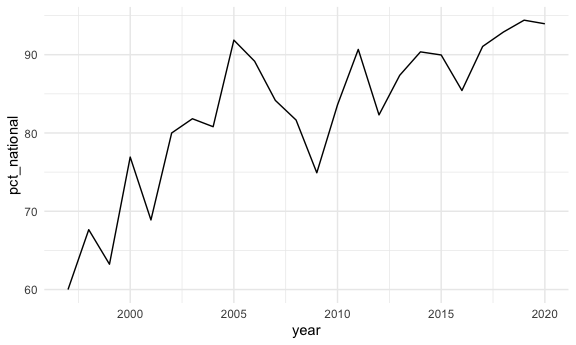
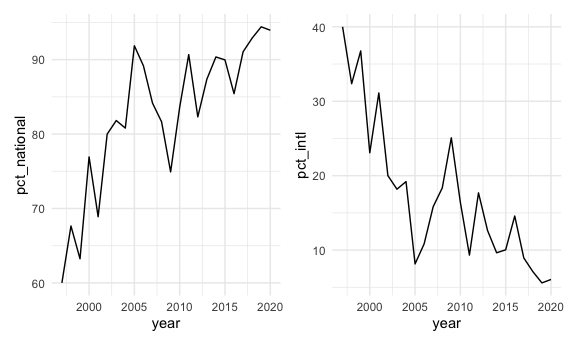
first look at plots before major work tomorrow morning

diff --git a/section-1.md b/section-1.md
@@ -11,14 +11,14 @@ will focus on global levels of violence against aid workers.
 library(tidyverse)
 ```
 
-    ## ── Attaching packages ─────────────────────────────────────────────────────────── tidyverse 1.3.0 ──
+    ## ── Attaching packages ─────────────────────────────────────────────────────────────────────────── tidyverse 1.3.0 ──
 
     ## ✓ ggplot2 3.3.2     ✓ purrr   0.3.4
     ## ✓ tibble  3.0.3     ✓ dplyr   1.0.2
     ## ✓ tidyr   1.1.2     ✓ stringr 1.4.0
     ## ✓ readr   1.3.1     ✓ forcats 0.5.0
 
-    ## ── Conflicts ────────────────────────────────────────────────────────────── tidyverse_conflicts() ──
+    ## ── Conflicts ────────────────────────────────────────────────────────────────────────────── tidyverse_conflicts() ──
     ## x dplyr::filter() masks stats::filter()
     ## x dplyr::lag()    masks stats::lag()
 
@@ -55,6 +55,36 @@ library(rvest)
 
 ``` r
 library(httr)
+library(flexdashboard)
+library(plotly)
+```
+
+    ## 
+    ## Attaching package: 'plotly'
+
+    ## The following object is masked from 'package:httr':
+    ## 
+    ##     config
+
+    ## The following object is masked from 'package:ggplot2':
+    ## 
+    ##     last_plot
+
+    ## The following object is masked from 'package:stats':
+    ## 
+    ##     filter
+
+    ## The following object is masked from 'package:graphics':
+    ## 
+    ##     layout
+
+``` r
+library(viridis)
+```
+
+    ## Loading required package: viridisLite
+
+``` r
 devtools::install_github("benmarwick/wordcountaddin",  type = "source", dependencies = TRUE)
 ```
 
@@ -89,12 +119,11 @@ aidworker_df =
   html_table() %>% 
   as_tibble()
 
-aidworker_df = 
-distinct(aidworker_df) 
-
 aidworker_df =
-  aidworker_df %>% 
+  aidworker_df %>%
   janitor::clean_names() %>% 
+  select(-source, -verified) %>% 
+  rename(year = year_sort_descending) %>% 
   mutate(intl_org_affected = 
            case_when(
              un != 0 ~ "yes",
@@ -102,17 +131,12 @@ aidworker_df =
              icrc != 0 ~ "yes",
              ifrc != 0 ~ "yes",
              other != 0 ~ "yes",
-             lngo_and_nrcs != 0 ~ "no"
-           ),
+             lngo_and_nrcs != 0 ~ "no"),
          intl_org_affected = as.factor(intl_org_affected)) %>% 
-  rename(year = year_sort_descending) %>% 
-  select(-source, -verified) %>% 
-  relocate(id, month, day, year, country, intl_org_affected)
+  relocate(id, month, day, year, country, intl_org_affected) 
 ```
 
 Brennan notes:
-
-\*why did we use distinct here?
 
   - I think this `case_when` approach works to identify whether an
     international org was affected, instead of the pivot idea.
@@ -123,6 +147,16 @@ Brennan notes:
 
   - if happy with cleaning, we can rename the `aidworker_tidy_df` as
     just `aidworker_df`
+
+Natalie notes:
+
+  - distinct was left behind from when I was trying to get the
+    pivot\_longer working. Deleted now\!
+
+  - I’m happy with the tidyness of it now but I think it would be more
+    useful to have a single date variable to use in our analysis - I
+    tried mutating to get to a date but keep getting all NAs. If someone
+    else figures this out lemme know\!
 
 ### Look at frequency of attacks on staff of various types of organizations
 
@@ -182,7 +216,10 @@ aidworker_df %>%
 
 ``` r
 ## If look at last row of data, appears "NA" is the total
+## Natalie note: I'm only seeing NA in the year column, not anywhere else - looks like the sums worked fine. I think R just knows not to add up the years. 
 
+## Plot of percentage of nationals affected by attacks over time 
+pct_ntl =
 aidworker_df %>%
   group_by(year) %>% 
   summarize(tot_national = sum(total_national_staff),
@@ -191,11 +228,33 @@ aidworker_df %>%
             pct_intl = (tot_intl/tot_both)*100,
             pct_national = (tot_national/tot_both)*100) %>% 
   ggplot(aes(x = year, y = pct_national)) + 
+  geom_line() 
+```
+
+    ## `summarise()` ungrouping output (override with `.groups` argument)
+
+``` r
+## Plot of percentage of internationals affected by attacks over time 
+pct_intl = 
+aidworker_df %>%
+  group_by(year) %>% 
+  summarize(tot_national = sum(total_national_staff),
+            tot_intl = sum(total_international_staff),
+            tot_both = sum(total_victims),
+            pct_intl = (tot_intl/tot_both)*100,
+            pct_national = (tot_national/tot_both)*100) %>% 
+  ggplot(aes(x = year, y = pct_intl)) + 
   geom_line()
 ```
 
     ## `summarise()` ungrouping output (override with `.groups` argument)
 
+``` r
+pct_ntl + pct_intl
+```
+
+    ## Warning: Removed 1 row(s) containing missing values (geom_path).
+    
     ## Warning: Removed 1 row(s) containing missing values (geom_path).
 
 <img src="section-1_files/figure-gfm/unnamed-chunk-2-1.png" width="90%" />
@@ -268,12 +327,14 @@ Above is not good.
 aidworker_df %>% 
   drop_na(year) %>% 
   group_by(year, means_of_attack) %>% 
-  filter(year == 2020) %>% 
+  filter(year == 2019) %>% 
   ggplot(aes(x = means_of_attack, fill = means_of_attack)) + 
   geom_bar()
 ```
 
-<img src="section-1_files/figure-gfm/unnamed-chunk-6-1.png" width="90%" />
+<img src="section-1_files/figure-gfm/bar plot of types of attacks for both ntl and intl workers-1.png" width="90%" />
+
+### Note from Natalie: I don’t think we should use 2020 as our year of analysis if we limit ourselves to one year since the year isn’t over and excluding the fall/winter might ignore seasonality effects
 
 I like this bar chart, but I think ‘count’ is the number of incidents,
 not the number of people affected. Would be really cool if this could be
@@ -283,72 +344,24 @@ see number of intl/natl affected by each type of attack?
 
 I’m not sure how to make those things work though.
 
-#### Attack context and actor types
+### Natalie: I’ll give this a closer look tomorrow morning\!
 
 ``` r
+## This was a failed attempt at summarizing by worker type to see if there are differences in means of attack by international vs. national status 
+
+#aidworker_df %>% 
+  #select(id, year, total_national_staff, total_international_staff, means_of_attack) %>% 
+  #as.numeric(c(total_international_staff, total_national_staff)) %>% 
+  #group_by(means_of_attack) %>% 
+  #summarize(across(total_national_staff:total_international_staff, count))
+
 aidworker_df %>% 
   drop_na(year) %>% 
-  filter(attack_context != "Unknown") %>% 
-  group_by(year, attack_context) %>% 
-  summarize(tot_national = sum(total_national_staff),
-            tot_intl = sum(total_international_staff),
-            tot_both = sum(total_victims)) %>%
-  ggplot(aes(x = year, y = tot_both, color = attack_context)) + 
-  geom_point() + 
-  labs(title = "Attack Contexts Over Time",
-       x = "Year",
-       y = "Aid Worker Victims")
+  group_by(year, means_of_attack) %>% 
+  select(year, means_of_attack) %>% 
+  filter(year == 2019) %>% 
+  ggplot(aes(x = means_of_attack, fill = means_of_attack)) + 
+  geom_bar()
 ```
 
-    ## `summarise()` regrouping output by 'year' (override with `.groups` argument)
-
-<img src="section-1_files/figure-gfm/unnamed-chunk-7-1.png" width="90%" />
-
-This is interesting: ambush = attacks on roads are most common and have
-been increasing.
-
-Brennan: Is there a better way to visualize this?
-
-``` r
-aidworker_df %>% 
-  drop_na(year) %>%
-  mutate(actor_type = recode(actor_type,
-                             "Non-state armed group: National" = "Non-state armed group",
-                             "Non-state armed group: Regional" = "Non-state armed group",
-                             "Non-state armed group: Subnational" = "Non-state armed group",
-                             "Non-state armed group: Unknown" = "Non-state armed group"),
-         actor_type = recode(actor_type,
-                             "State: unknown" = "State or paramilitary",
-                             "Host state" = "State or paramilitary",
-                             "Police or paramilitary" = "State or paramilitary")) %>%
-  filter(actor_type == c("Non-state armed group", "State or paramilitary", "Foreign or coalition forces")) %>% 
-  group_by(year, actor_type) %>% 
-  summarize(tot_national = sum(total_national_staff),
-            tot_intl = sum(total_international_staff),
-            tot_both = sum(total_victims))
-```
-
-    ## Warning in actor_type == c("Non-state armed group", "State or paramilitary", :
-    ## longer object length is not a multiple of shorter object length
-
-    ## `summarise()` regrouping output by 'year' (override with `.groups` argument)
-
-    ## # A tibble: 41 x 5
-    ## # Groups:   year [23]
-    ##     year actor_type            tot_national tot_intl tot_both
-    ##    <int> <chr>                        <int>    <int>    <int>
-    ##  1  1997 Non-state armed group           10        0       10
-    ##  2  1998 Non-state armed group            3       15       18
-    ##  3  1999 Non-state armed group            1        2        3
-    ##  4  2000 State or paramilitary            7        0        7
-    ##  5  2001 Non-state armed group            2        2        4
-    ##  6  2001 State or paramilitary            1        0        1
-    ##  7  2002 Non-state armed group            2        0        2
-    ##  8  2004 Non-state armed group            2        0        2
-    ##  9  2005 Non-state armed group            7        1        8
-    ## 10  2006 Non-state armed group            3        1        4
-    ## # … with 31 more rows
-
-Tried to make actor types more interesting by only looking at State
-forces (including paramilitary), non-state forces, and foreign forces –
-not sure it’s very interesting
+<img src="section-1_files/figure-gfm/plot comparing attack type-1.png" width="90%" />
